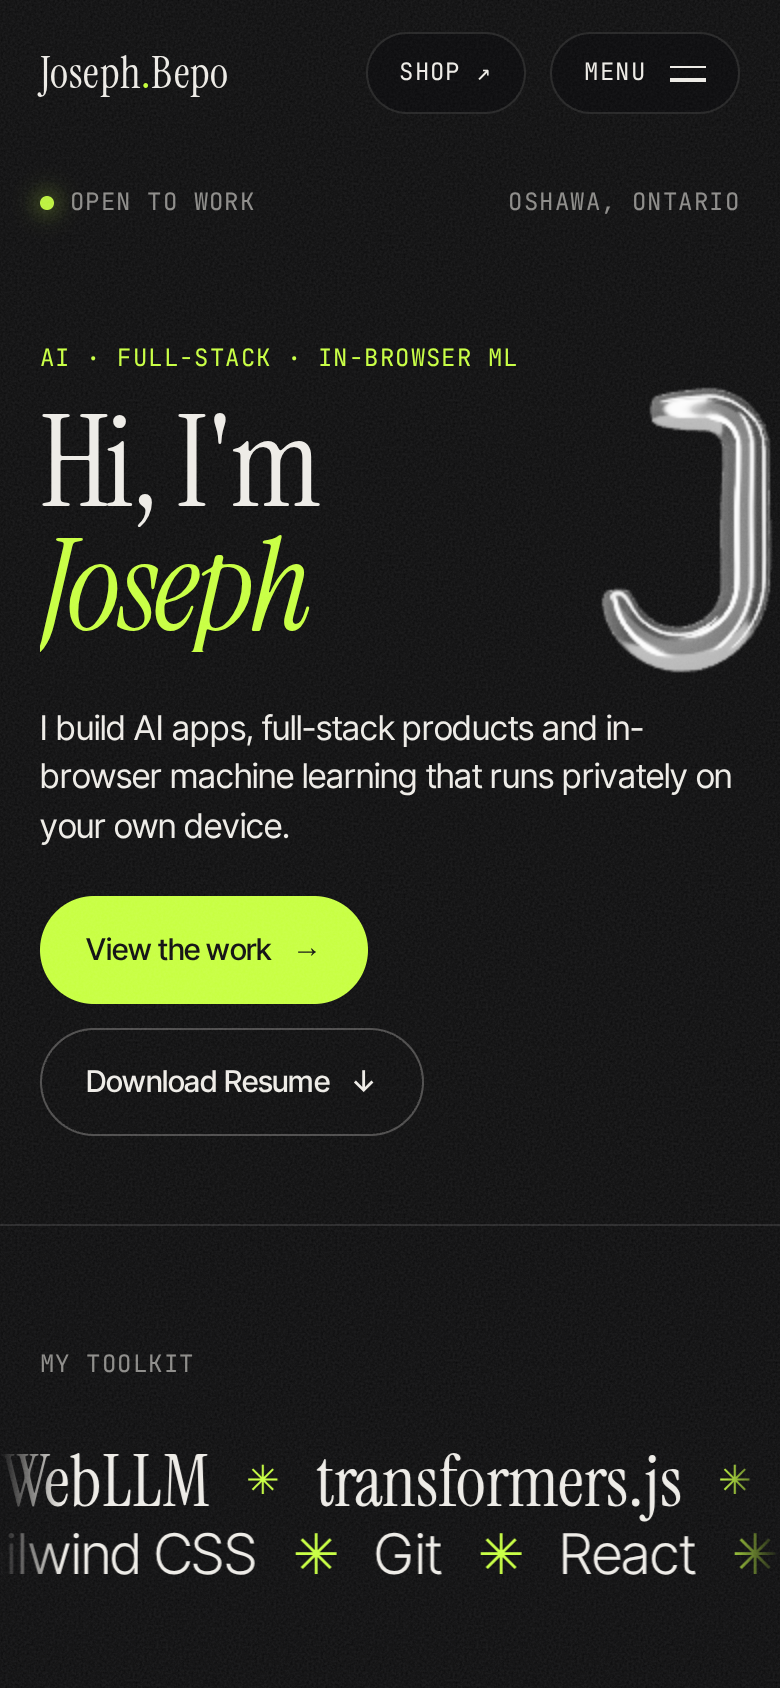
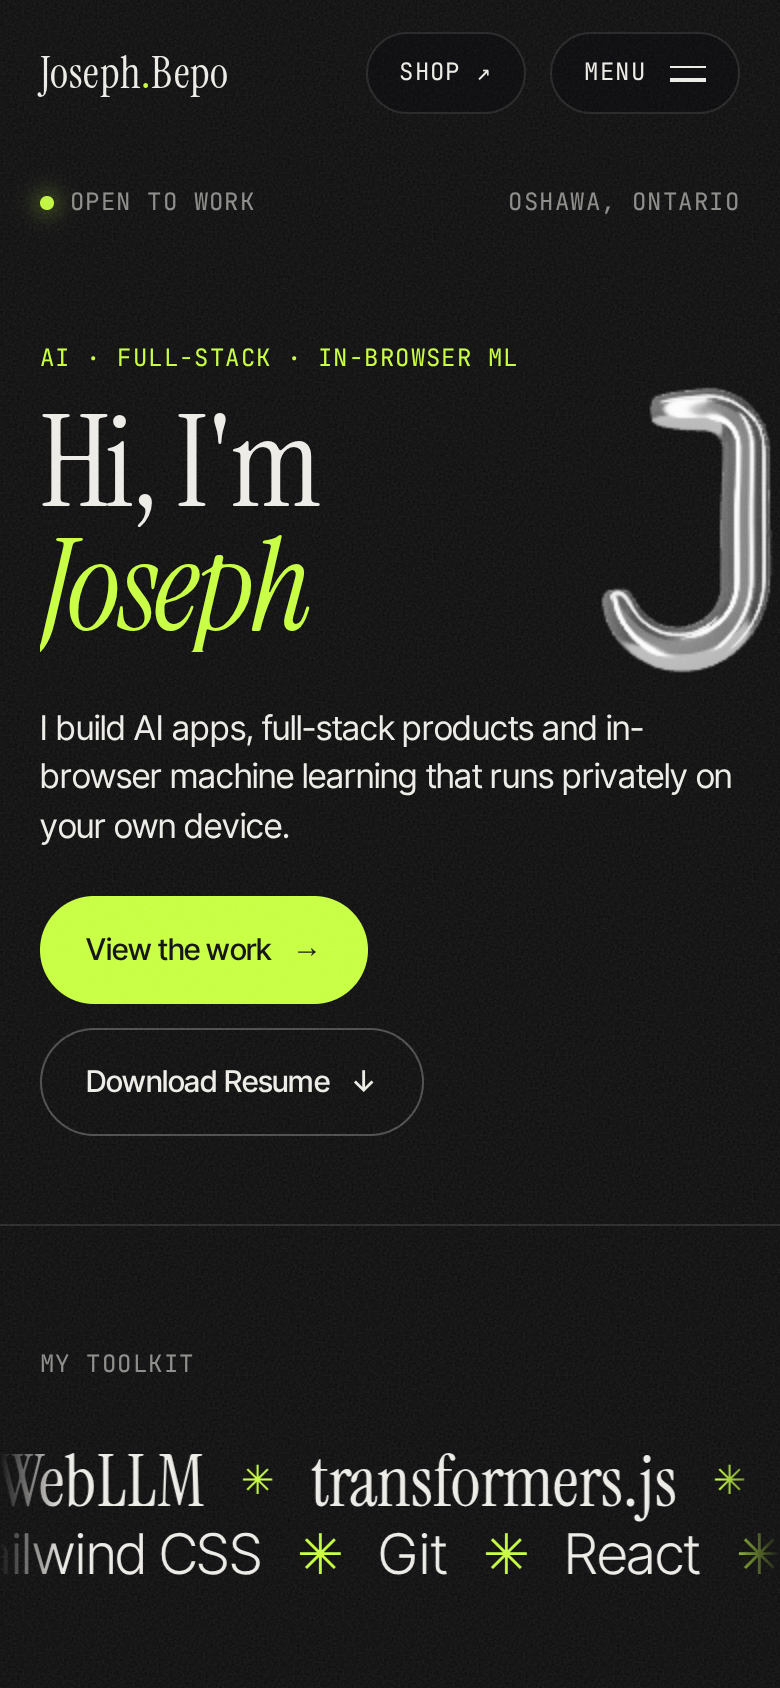
Sync with josephbepocode/josephbepo@redesign 08f36ec

diff --git a/assets/main.js b/assets/main.js
@@ -184,7 +184,13 @@ addEventListener('scroll',()=>{if(!ticking){ticking=true;requestAnimationFrame(o
 
 // Smooth scrolling (Lenis) wired to GSAP ScrollTrigger
 window.__reduce=reduce;
-if(!reduce&&window.Lenis&&!matchMedia('(max-width: 767px), (pointer: coarse)').matches){const lenis=new Lenis({lerp:.1,smoothWheel:true});window.__lenis=lenis;
+// GSAP, ScrollTrigger and Lenis are loaded after the page has painted and loaded (desktop only; touch uses native scroll).
+const loadScript=src=>new Promise((ok,no)=>{const s=document.createElement('script');s.src=src;s.onload=ok;s.onerror=no;document.head.appendChild(s)});
+const wantMotion=!reduce&&!matchMedia('(max-width: 767px), (pointer: coarse)').matches;
+window.__libs=wantMotion?new Promise(ok=>{const go=()=>Promise.all(['assets/vendor/gsap.min.js','assets/vendor/lenis.min.js'].map(loadScript))
+  .then(()=>loadScript('assets/vendor/ScrollTrigger.min.js')).then(()=>{initLenis();ok()},()=>ok());
+ document.readyState==='complete'?go():addEventListener('load',go,{once:true})}):Promise.resolve();
+function initLenis(){if(!window.Lenis)return;const lenis=new Lenis({lerp:.1,smoothWheel:true});window.__lenis=lenis;
  if(window.gsap&&window.ScrollTrigger){gsap.registerPlugin(ScrollTrigger);lenis.on('scroll',ScrollTrigger.update);gsap.ticker.add(t=>lenis.raf(t*1000));gsap.ticker.lagSmoothing(0)}
  else{const raf=t=>{lenis.raf(t);requestAnimationFrame(raf)};requestAnimationFrame(raf)}
  $$('a[href^="#"]').forEach(a=>a.addEventListener('click',e=>{const id=a.getAttribute('href');if(id.length<2)return;const t=$(id);if(!t)return;e.preventDefault();lenis.scrollTo(t,{offset:0,duration:1.4});history.replaceState(null,'',id)}))}

diff --git a/index.html b/index.html
@@ -86,7 +86,7 @@
   <p class="label mono">(01) About Me</p>
   <div class="about-grid">
   <figure class="portrait reveal">
-    <img src="assets/joseph.jpg" alt="Portrait of Joseph Bepo" width="600" height="750" loading="lazy" decoding="async">
+    <img src="assets/joseph.webp" alt="Portrait of Joseph Bepo" width="640" height="800" loading="lazy" decoding="async">
     <figcaption class="mono"><span>Joseph Bepo</span><span>Oshawa, ON</span></figcaption>
   </figure>
   <p class="statement" id="statement">I'm a Computer Programming graduate from Durham College who fell hard for the web. Today I ship AI that runs in the browser, from local LLM agents and voice assistants to computer vision, alongside 3D simulations, games and full-stack products that real people can use.</p>
@@ -149,9 +149,6 @@
   <p class="mono">&copy; <span id="yr"></span> Joseph Bepo &middot; Oshawa, Ontario</p>
   <a class="mono totop" href="#home">Back to top &uarr;</a>
 </footer>
-<script src="assets/vendor/gsap.min.js" defer></script>
-<script src="assets/vendor/ScrollTrigger.min.js" defer></script>
-<script src="assets/vendor/lenis.min.js" defer></script>
 <script src="assets/main.js" defer></script>
 <script type="importmap">{"imports":{"three":"./assets/vendor/three.module.min.js"}}</script>
 <script type="module" src="assets/scene.js"></script>

diff --git a/assets/scene.js b/assets/scene.js
@@ -1,6 +1,6 @@
 // Liquid Chrome Monogram: one fixed three.js canvas behind the HTML.
 // The blob is an icosphere with simplex-noise displacement that can morph into a "J" tube.
-import * as THREE from 'three';
+let THREE; // three.js is imported on demand, after load + idle, so it never competes with first paint
 
 const root = document.documentElement;
 const canvas = document.getElementById('gl');
@@ -285,7 +285,7 @@ function init() {
 }
 
 // Boot (at the end so every const above is initialised)
-const boot = () => { try { init(); } catch (e) { console.warn('WebGL init failed', e); fallback('error'); } };
+const boot = async () => { try { await (window.__libs || Promise.resolve()); THREE = await import('three'); init(); } catch (e) { console.warn('WebGL init failed', e); fallback('error'); } };
 // Start WebGL only after the page has loaded and the main thread is idle, so the HTML hero paints first.
 const whenIdle = fn => { const go = () => ('requestIdleCallback' in window ? requestIdleCallback(fn, { timeout: 1200 }) : setTimeout(fn, 200));
   document.readyState === 'complete' ? go() : addEventListener('load', go, { once: true }); };
